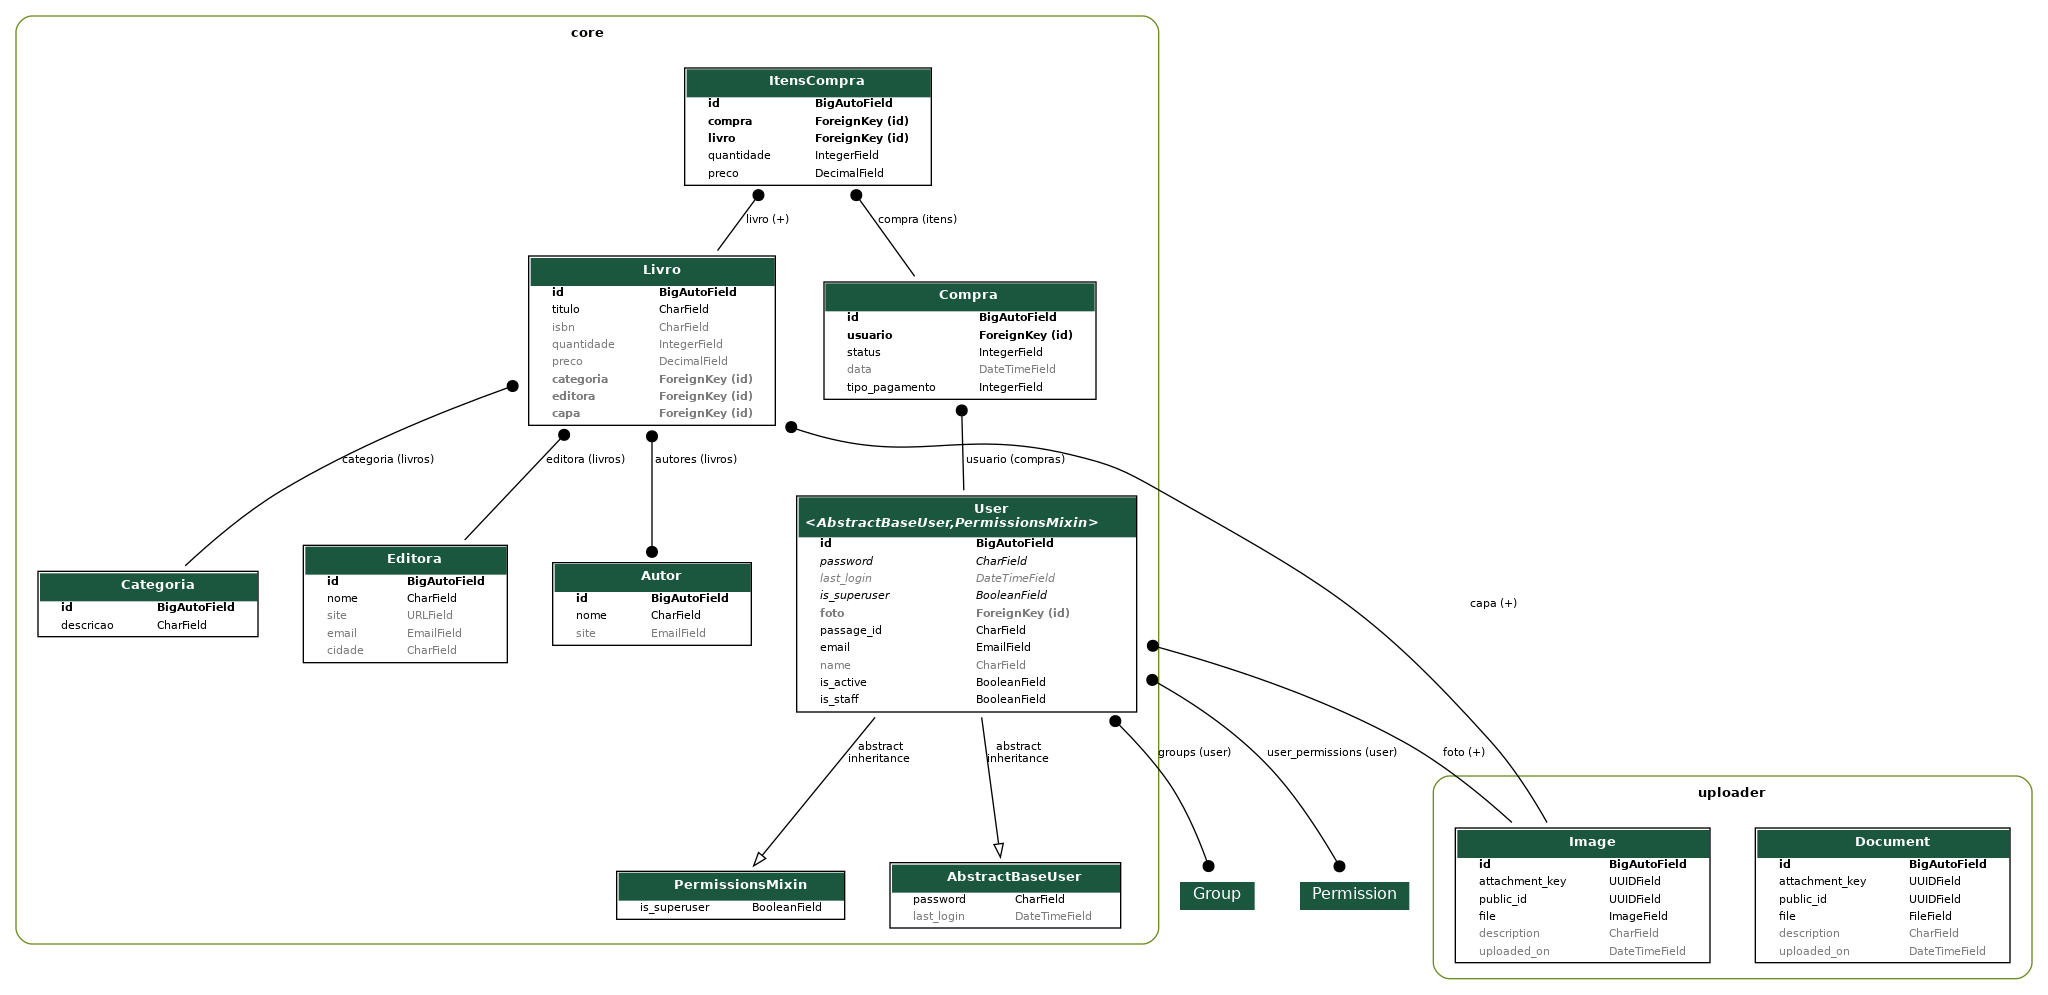
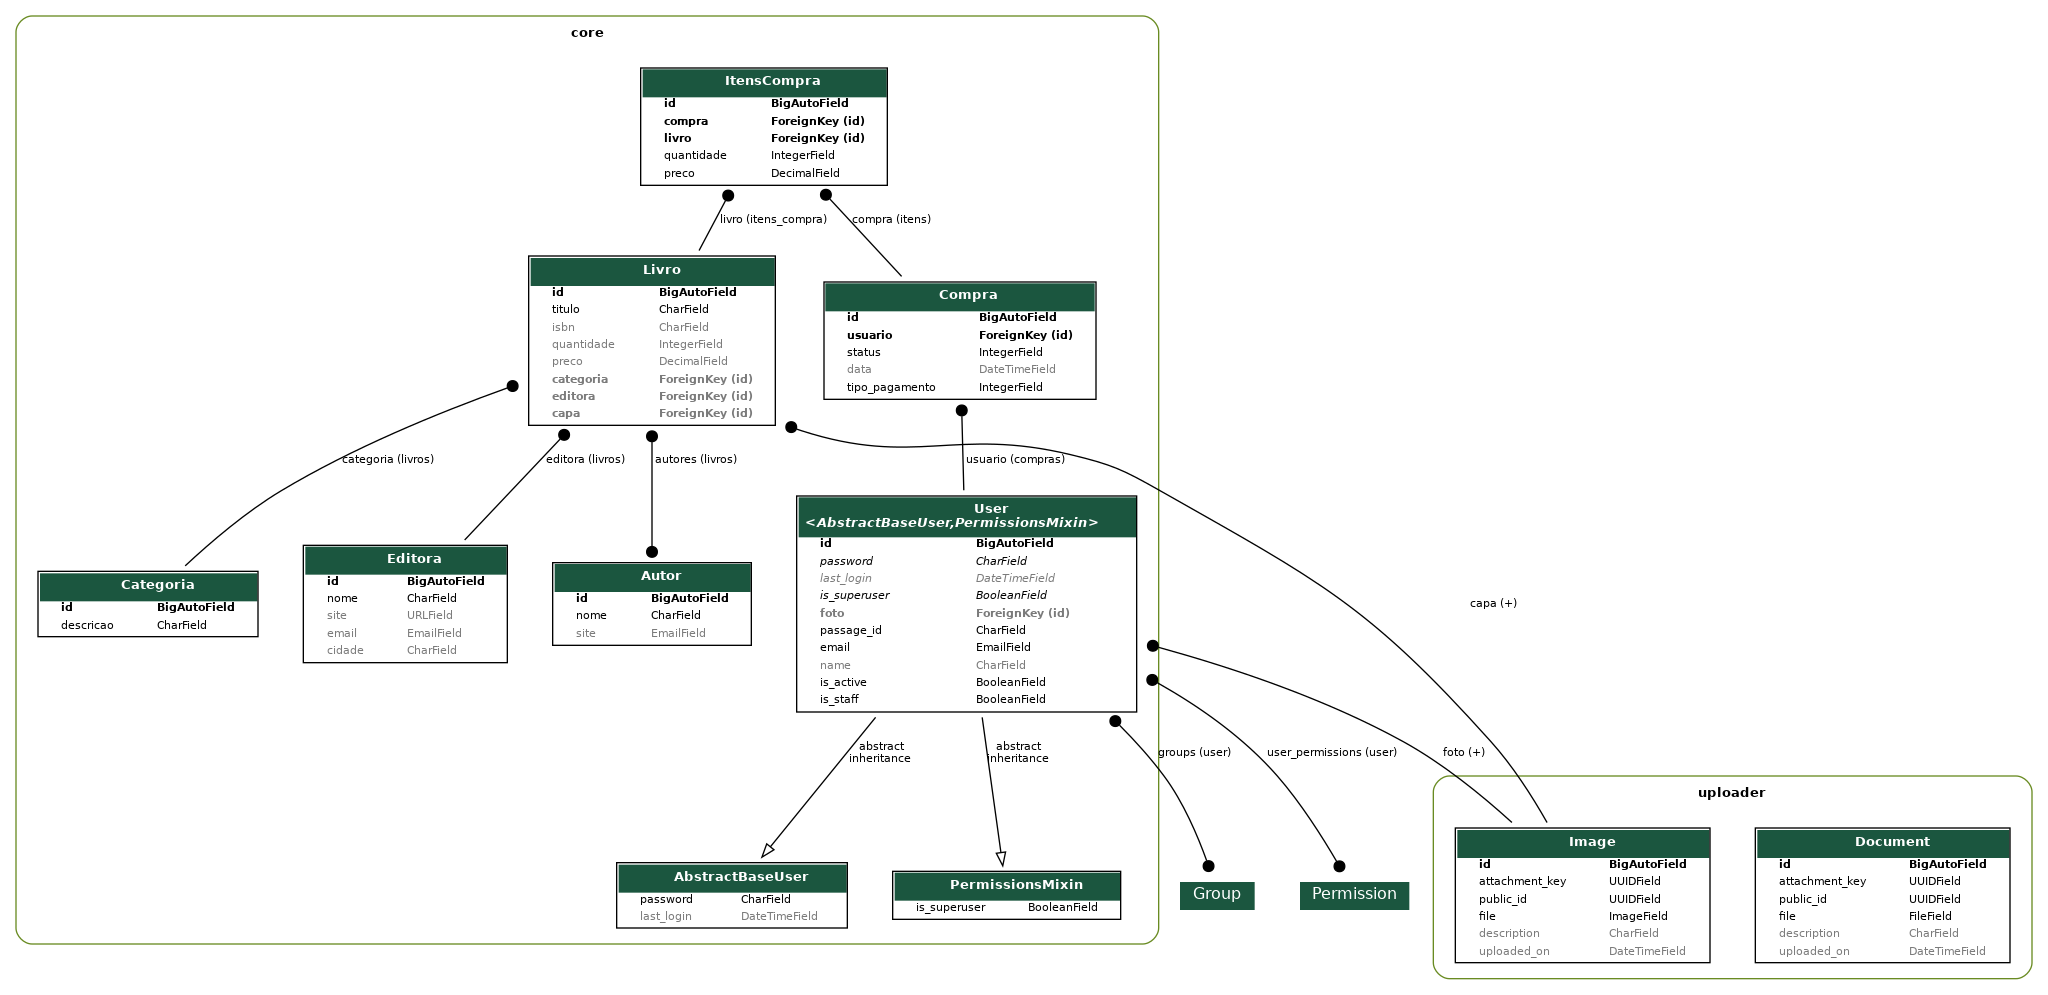
PASSO 36 FEITO

Changed region(s): [[0.3125, 0.0623, 0.4688, 0.2492], [0.2812, 0.8412, 0.5625, 0.9347], [0.4062, 0.7477, 0.4375, 0.7789]]

diff --git a/core/views/livro.py b/core/views/livro.py
@@ -1,5 +1,6 @@
 from rest_framework import status
 from django.db.models.aggregates import Sum
+from django_filters.rest_framework import DjangoFilterBackend
 from rest_framework.decorators import action
 from rest_framework.filters import OrderingFilter, SearchFilter
 from rest_framework.response import Response
@@ -15,6 +16,8 @@ from core.serializers import (
 class LivroViewSet(ModelViewSet):
     queryset = Livro.objects.all()
     serializer_class = LivroSerializer
+    filter_backends = [DjangoFilterBackend]
+    filterset_fields = ["categoria__descricao", "editora__nome"]
 
     def get_serializer_class(self):
         if self.action == "list":

diff --git a/core/migrations/0016_alter_itenscompra_livro.py b/core/migrations/0016_alter_itenscompra_livro.py
@@ -1,0 +1,21 @@
+# Generated by Django 5.1.3 on 2025-02-03 12:43
+
+import django.db.models.deletion
+from django.db import migrations, models
+
+
+class Migration(migrations.Migration):
+
+    dependencies = [
+        ("core", "0015_compra_data_compra_tipo_pagamento_itenscompra_preco"),
+    ]
+
+    operations = [
+        migrations.AlterField(
+            model_name="itenscompra",
+            name="livro",
+            field=models.ForeignKey(
+                on_delete=django.db.models.deletion.PROTECT, related_name="itens_compra", to="core.livro"
+            ),
+        ),
+    ]
